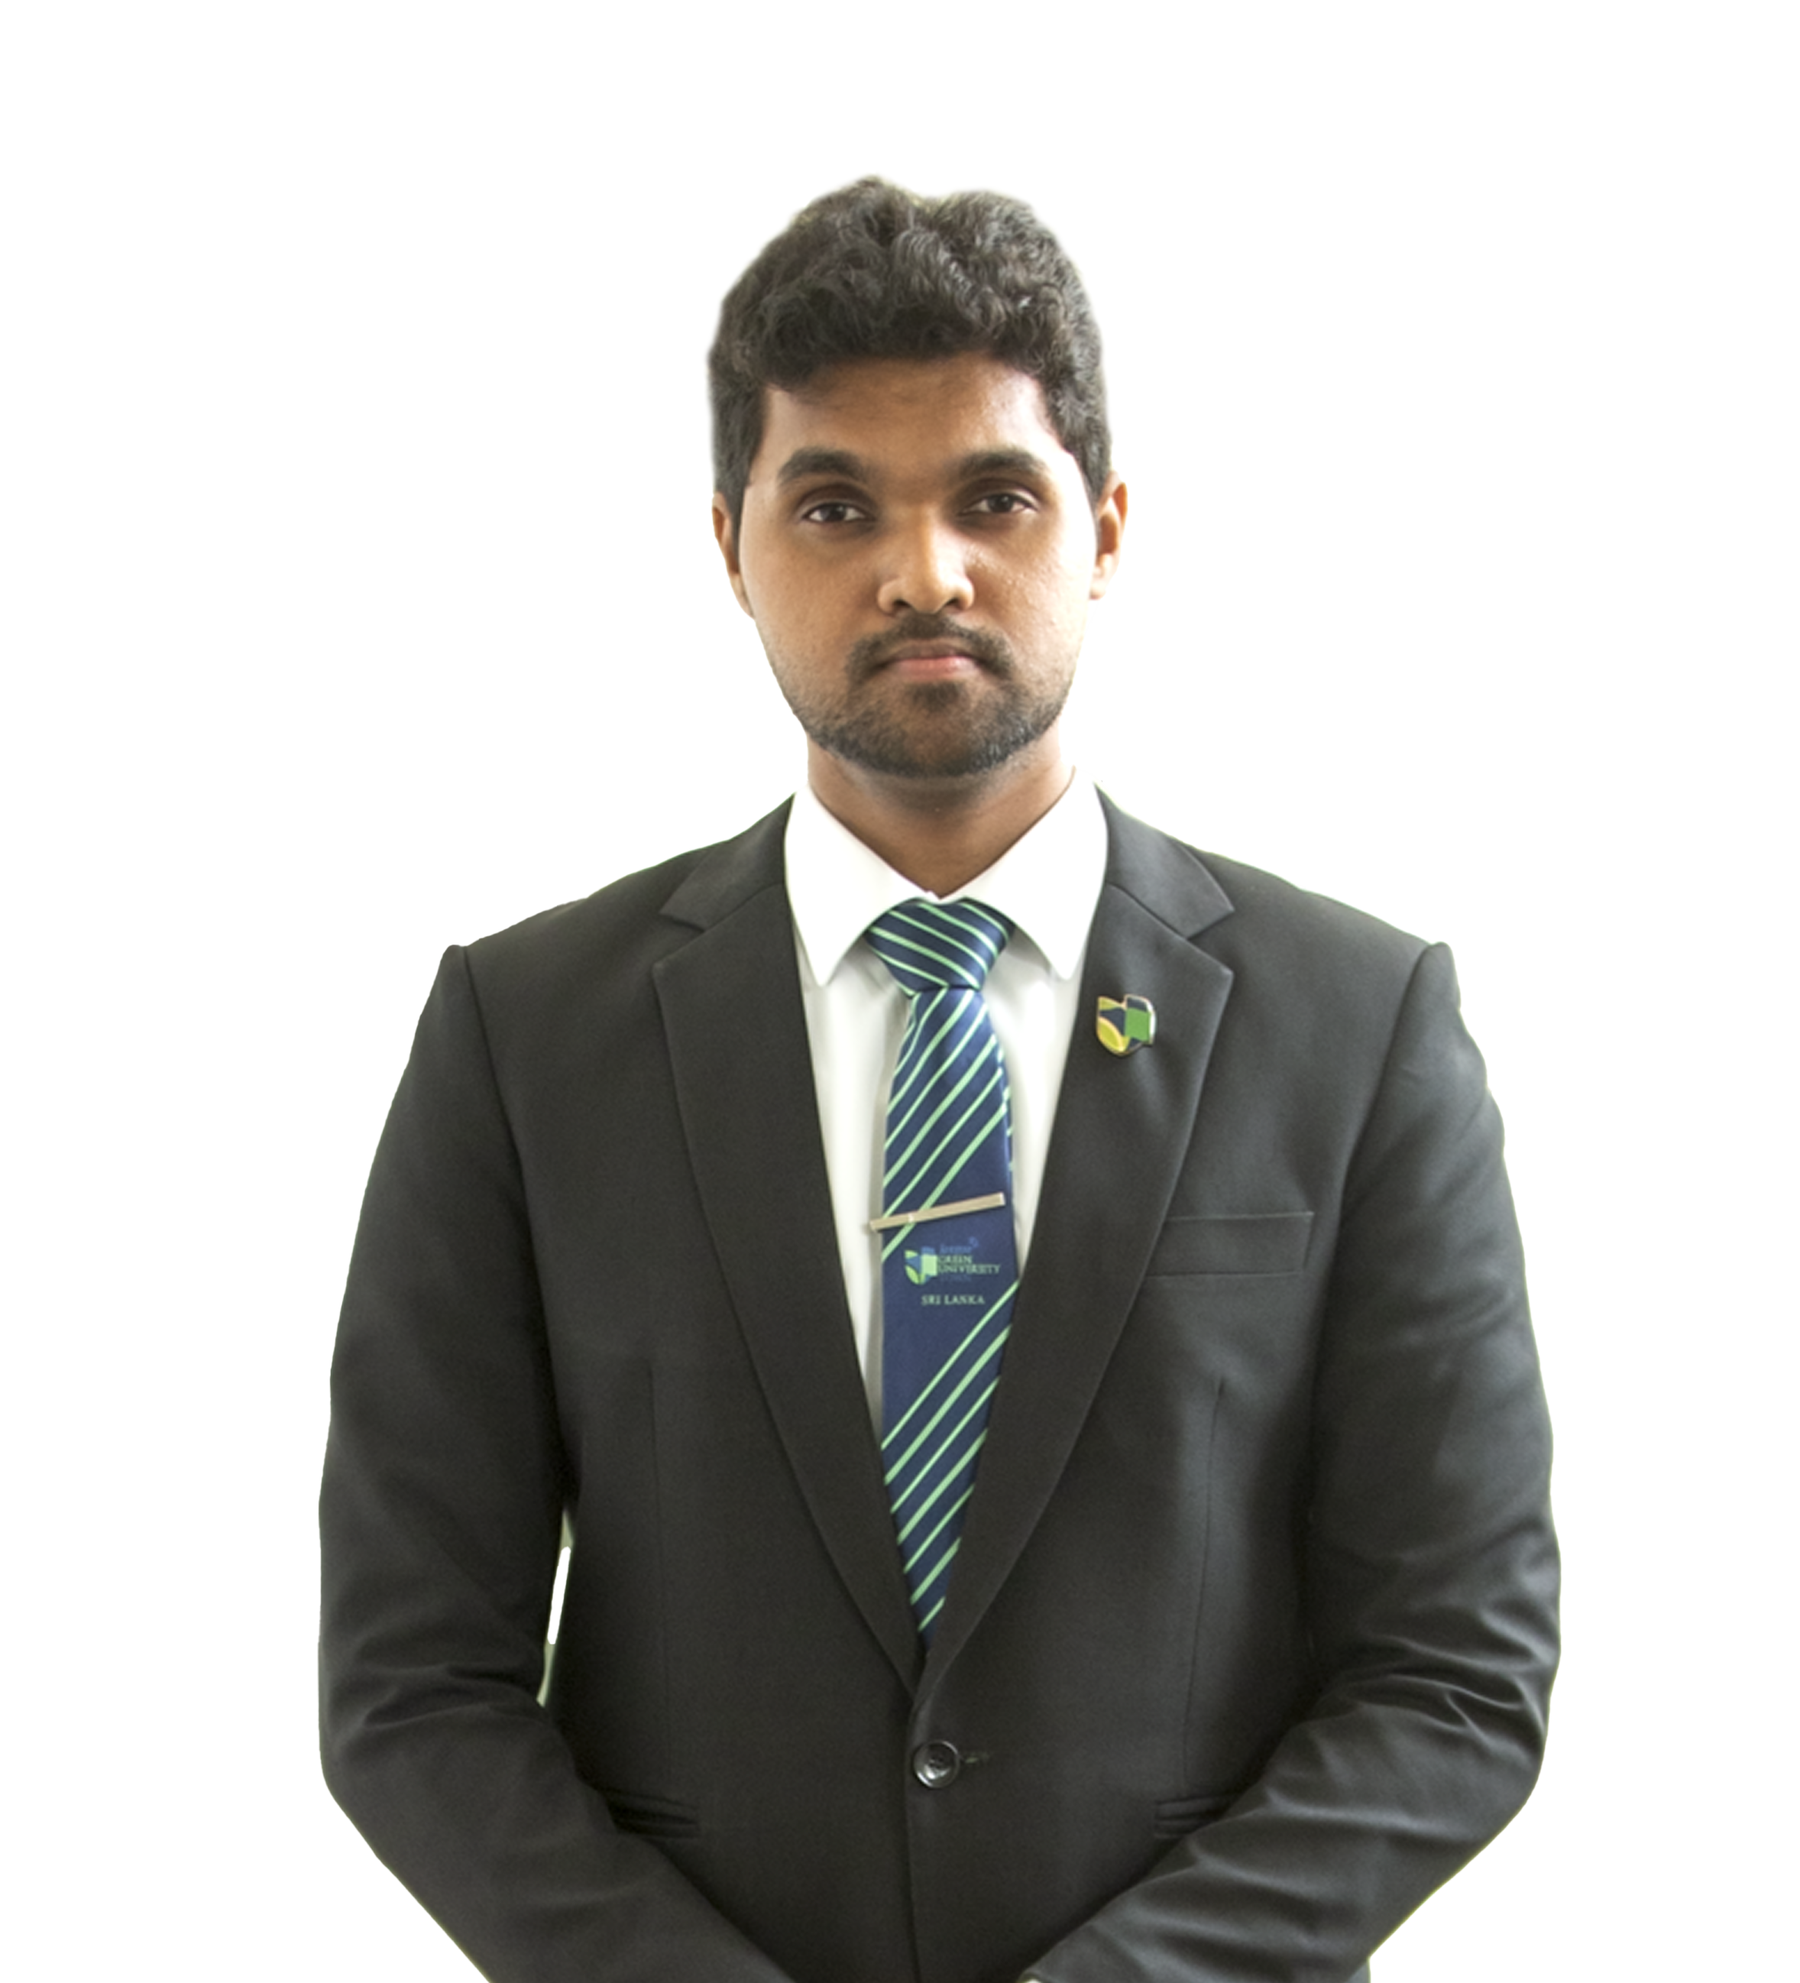
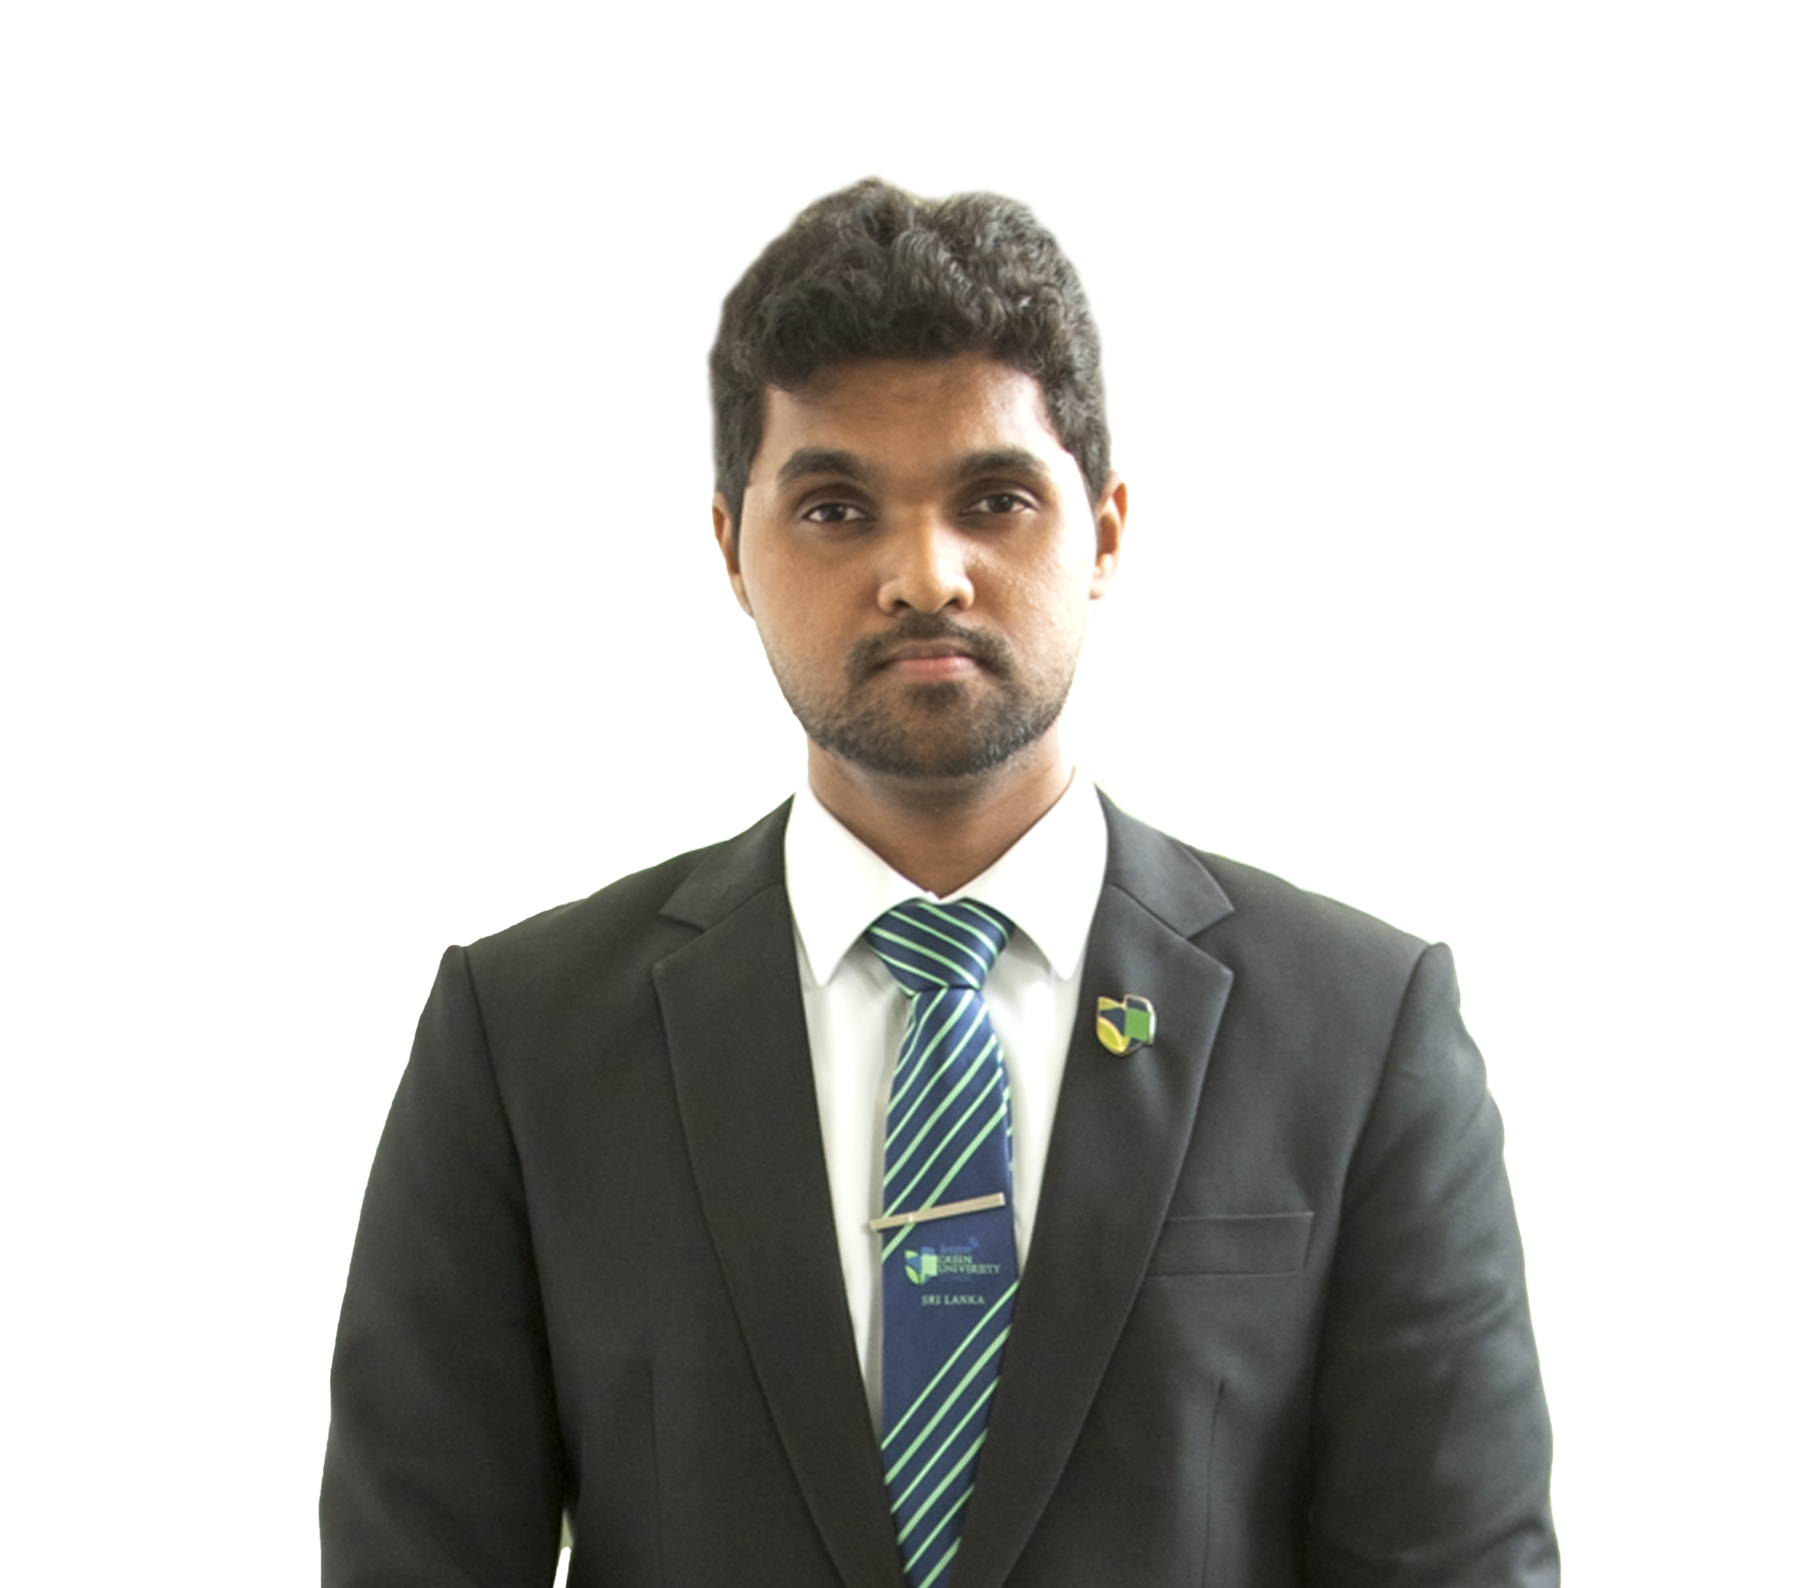
refactor(excom-card): branch based bg color and size changes to excom cards

Changed region(s): [[0.1549, 0.0924, 0.8676, 1.0], [0.5887, 0.8624, 0.6197, 0.924], [0.4028, 0.9856, 0.4338, 1.0]]

diff --git a/src/components/excom-page-tabs/2025-excom.tsx b/src/components/excom-page-tabs/2025-excom.tsx
@@ -12,31 +12,44 @@ export default function TwentyFiveExcom({ category }: Props) {
   const TwentyFiveExcom = members.filter(
     (member) => member.year === 2025 && member.category === category,
   );
+  const getBackgroundColor = (category: string) => {
+    switch (category) {
+      case "sb":
+        return "from-blue/50 to-blue/90";
+      case "cs":
+        return "from-csLight/50 to-csLight/90";
+      case "wie":
+        return "from-wieLight/50 to-wieLight/90";
+      default:
+        return "from-gray-400/50 to-gray-400/90";
+    }
+  };
   const excomCard = TwentyFiveExcom.map(
     (member: {
       year: number;
       name: string;
       image: StaticImageData;
+      category: string;
       title: string;
       linkdInURL: string;
       facebookURL: string;
     }) => (
       <div
         key={member.year}
-        className="flex flex-col items-center mx-5 md:m w-[350px] h-[350px] shadow-lg rounded-2xl text-center mt-10 hover:shadow-md transition-shadow duration-300"
+        className="flex flex-col items-center mx-5 md:m w-[300px] h-[350px] shadow-lg rounded-2xl text-center mt-10 hover:shadow-md transition-shadow duration-300"
       >
         <Image
           src={member.image}
           alt={member.name}
-          className="rounded-full w-[200px] h-[200px] mt-4 mb-4"
+          className={`bg-gradient-to-b ${getBackgroundColor(member.category)} w-full h-[250px] mb-4 rounded-t-2xl`}
         />
         <h2 className="text-xl font-bold">{member.name}</h2>
         <p className="text-sm text-gray-600">{member.title}</p>
-        <div className="flex p-2 justify-center text-[20px] gap-2">
-          <Link href="#" className="footer-social">
+        <div className="flex p-2 justify-center text-[20px] text-blue gap-2">
+          <Link href={member.facebookURL} className="footer-social">
             <BsFacebook />
           </Link>
-          <Link href="#" className="footer-social">
+          <Link href={member.linkdInURL} className="footer-social">
             <BsLinkedin />
           </Link>
         </div>
@@ -45,7 +58,7 @@ export default function TwentyFiveExcom({ category }: Props) {
   );
   return (
     <div className="mx-auto mb-10">
-      <div className="grid grid-cols-1 justify-items-center md:grid-cols-2 container mx-auto max-w-[390px] md:max-w-[690px] lg:max-w-[850px] xl:max-w-[1100px] md:gap-5 pb-10">
+      <div className="flex flex-wrap flex-cols-1 justify-center md:flex-cols-3 container mx-auto max-w-[390px] md:max-w-[690px] lg:max-w-[850px] xl:max-w-[1100px] md:gap-5 pb-10">
         {excomCard}
       </div>
     </div>

diff --git a/src/components/excom-page-tabs/2024-excom.tsx b/src/components/excom-page-tabs/2024-excom.tsx
@@ -12,31 +12,44 @@ export default function TwentyFourExcom({ category }: Props) {
   const TwentyFourExcom = members.filter(
     (member) => member.year === 2024 && member.category === category,
   );
+  const getBackgroundColor = (category: string) => {
+    switch (category) {
+      case "sb":
+        return "from-blue/50 to-blue/90";
+      case "cs":
+        return "from-csLight/50 to-csLight/90";
+      case "wie":
+        return "from-wieLight/50 to-wieLight/90";
+      default:
+        return "from-gray-400/50 to-gray-400/90";
+    }
+  };
   const excomCard = TwentyFourExcom.map(
     (member: {
       year: number;
       name: string;
       image: StaticImageData;
+      category: string;
       title: string;
       linkdInURL: string;
       facebookURL: string;
     }) => (
       <div
         key={member.year}
-        className="flex flex-col items-center w-[350px] h-[350px] shadow-lg rounded-2xl text-center mx-5 mt-10 hover:shadow-md transition-shadow duration-300"
+        className="flex flex-col items-center w-[300px] h-[350px] shadow-lg rounded-2xl text-center mx-5 mt-10 hover:shadow-md transition-shadow duration-300"
       >
         <Image
           src={member.image}
           alt={member.name}
-          className="w-full h-[250px] mb-4 rounded-t-2xl"
+          className={`bg-gradient-to-b ${getBackgroundColor(member.category)} w-full h-[250px] mb-4 rounded-t-2xl`}
         />
         <h2 className="text-xl font-bold">{member.name}</h2>
         <p className="text-sm text-gray-600">{member.title}</p>
-        <div className="flex p-2 justify-center text-[20px] gap-2">
-          <Link href="#" className="footer-social">
+        <div className="flex p-2 justify-center text-[20px] text-blue gap-2">
+          <Link href={member.facebookURL} className="footer-social">
             <BsFacebook />
           </Link>
-          <Link href="#" className="footer-social">
+          <Link href={member.linkdInURL} className="footer-social">
             <BsLinkedin />
           </Link>
         </div>
@@ -45,7 +58,7 @@ export default function TwentyFourExcom({ category }: Props) {
   );
   return (
     <div className="mx-auto mb-10">
-      <div className="grid grid-cols-1 justify-items-center md:grid-cols-2 container mx-auto max-w-[390px] md:max-w-[690px] lg:max-w-[850px] xl:max-w-[1100px] md:gap-5 pb-10">
+      <div className="flex flex-wrap flex-cols-1 justify-center md:grid-cols-2 container mx-auto max-w-[390px] md:max-w-[690px] lg:max-w-[850px] xl:max-w-[1100px] md:gap-5 pb-10">
         {excomCard}
       </div>
     </div>

diff --git a/src/components/wie-cs/excom-section.tsx b/src/components/wie-cs/excom-section.tsx
@@ -1,0 +1,66 @@
+"use client";
+import { members } from "@/content/excom-member-data";
+import Image from "next/image";
+import Link from "next/link";
+import React from "react";
+import { BsFacebook, BsLinkedin } from "react-icons/bs";
+
+function ExcomSection({
+  title,
+  year,
+  category,
+  description,
+}: {
+  title: string;
+  year: number;
+  category: string;
+  description: string;
+}) {
+  const filteredMembers = members.filter(
+    (member) => member.category === category && member.year === year,
+  );
+  const getBackgroundColor = (category: string) => {
+    switch (category) {
+      case "sb":
+        return "from-blue/50 to-blue/90";
+      case "cs":
+        return "from-csLight/50 to-csLight/90";
+      case "wie":
+        return "from-wieLight/50 to-wieLight/90";
+      default:
+        return "from-gray-400/50 to-gray-400/90";
+    }
+  };
+  return (
+    <div className="container mx-auto max-w-[1170px] px-4 mt-14 flex flex-col gap-4">
+      <h1 className="text-4xl lg:text-6xl font-bold text-center">{title}</h1>
+      <p className="text-center">{description}</p>
+      <div className="flex flex-wrap justify-center gap-4">
+        {filteredMembers.map((member, index) => (
+          <div
+            key={index}
+            className="flex flex-col items-center mx-5 md:m w-[300px] h-[350px] shadow-lg rounded-2xl text-center mt-10 hover:shadow-md transition-shadow duration-300"
+          >
+            <Image
+              src={member.image}
+              alt={member.name}
+              className={`bg-gradient-to-b ${getBackgroundColor(member.category)} w-full h-[250px] mb-4 rounded-t-2xl`}
+            />
+            <h2 className="text-xl font-bold">{member.name}</h2>
+            <p className="text-sm text-gray-600">{member.title}</p>
+            <div className="flex p-2 justify-center text-[20px] text-blue gap-2">
+              <Link href={member.facebookURL} className="footer-social">
+                <BsFacebook />
+              </Link>
+              <Link href={member.linkdInURL} className="footer-social">
+                <BsLinkedin />
+              </Link>
+            </div>
+          </div>
+        ))}
+      </div>
+    </div>
+  );
+}
+
+export default ExcomSection;

diff --git a/src/content/excom-member-data.tsx b/src/content/excom-member-data.tsx
@@ -37,6 +37,65 @@ export const members = [
   // {
   //   year: 2025,
   //   name: "Geeth Induwara",
+  //   image:
+  //     require("@/assets/bc-and-excom/excom/2025/jayasanka-ariyaratna.png") as StaticImageData,
+  //   title: "Chairperson - IEEE Student Branch",
+  //   linkdInURL: "",
+  //   facebookURL: "",
+  //   category: "sb",
+  // },{
+  //   year: 2025,
+  //   name: "Geeth Induwara",
+  //   image:
+  //     require("@/assets/bc-and-excom/excom/2025/jayasanka-ariyaratna.png") as StaticImageData,
+  //   title: "Chairperson - IEEE Student Branch",
+  //   linkdInURL: "",
+  //   facebookURL: "",
+  //   category: "sb",
+  // },{
+  //   year: 2025,
+  //   name: "Geeth Induwara",
+  //   image:
+  //     require("@/assets/bc-and-excom/excom/2025/jayasanka-ariyaratna.png") as StaticImageData,
+  //   title: "Chairperson - IEEE Student Branch",
+  //   linkdInURL: "",
+  //   facebookURL: "",
+  //   category: "sb",
+  // },
+  // {
+  //   year: 2025,
+  //   name: "Jayasanka Ariyaratna",
+  //   image:
+  //     require("@/assets/bc-and-excom/excom/2025/jayasanka-ariyaratna.png") as StaticImageData,
+  //   title: "Chairperson - IEEE Computer Society",
+  //   linkdInURL: "",
+  //   facebookURL: "",
+  //   category: "cs",
+  // },
+  // {
+  //   year: 2025,
+  //   name: "Jayasanka Ariyaratna",
+  //   image:
+  //     require("@/assets/bc-and-excom/excom/2025/jayasanka-ariyaratna.png") as StaticImageData,
+  //   title: "Chairperson - IEEE Computer Society",
+  //   linkdInURL: "",
+  //   facebookURL: "",
+  //   category: "cs",
+  // },
+  // {
+  //   year: 2025,
+  //   name: "Jayasanka Ariyaratna",
+  //   image:
+  //     require("@/assets/bc-and-excom/excom/2025/jayasanka-ariyaratna.png") as StaticImageData,
+  //   title: "Chairperson - IEEE Computer Society",
+  //   linkdInURL: "",
+  //   facebookURL: "",
+  //   category: "cs",
+  // },
+
+  // {
+  //   year: 2025,
+  //   name: "Geeth Induwara",
   //   imageUrl: "/images/excom/2025/Geeth-induwara.jpg",
   //   title: "Chairperson",
   //   linkdInURL: "",

diff --git a/src/components/wie-cs/past-excom-section.tsx b/src/components/wie-cs/past-excom-section.tsx
@@ -1,47 +1,25 @@
-"use client";
-import { members } from "@/content/excom-member-data";
-// import Image from "next/image";
+import Image, { StaticImageData } from "next/image";
 import React from "react";
 
 function PastExcomSection({
   title,
-  year,
-  category,
-  description,
+
+  imgUrl,
 }: {
   title: string;
-  year: number;
-  category: string;
-  description: string;
+  imgUrl: StaticImageData;
 }) {
-  const filteredMembers = members.filter(
-    (member) => member.category === category && member.year === year,
-  );
   return (
-    <div className="container mx-auto max-w-[1170px] px-4 mt-14 flex flex-col gap-4">
-      <h1 className="text-4xl lg:text-6xl font-bold text-center">{title}</h1>
-      <p className="text-center">{description}</p>
-      <div className="flex flex-wrap justify-center gap-4">
-        {filteredMembers.map((excom, index) => (
-          <div
-            key={index}
-            className="w-[200px] text-center flex flex-col items-center rounded-lg border shadow-sm overflow-hidden"
-          >
-            <div className="w-full h-[200px] ">
-              {/* <Image
-                // src={excom.imageUrl}
-                alt={excom.name}
-                width={128}
-                height={128}
-                className="h-full w-full object-cover"
-              /> */}
-            </div>
-            <div className="p-2">
-              <h2 className="text-base font-bold">{excom.name}</h2>
-              <p className="text-sm">{excom.title}</p>
-            </div>
-          </div>
-        ))}
+    <div className="container mx-auto max-w-[1170px] flex flex-col gap-4 my-12 justify-center items-center text-center  p-10">
+      <h1 className="text-4xl font-bold text-center">{title}</h1>
+      <div className="max-w-[760px] w-full  md:px-10">
+        <Image
+          src={imgUrl}
+          width={869}
+          height={1000}
+          className="w-full"
+          alt="excom members"
+        />
       </div>
     </div>
   );

diff --git a/src/app/cs/page.tsx b/src/app/cs/page.tsx
@@ -3,7 +3,7 @@ import duothanImg from "@/assets/hero-images/duothan4.0.jpg";
 import EventCard from "@/components/index/event-card";
 import HeroCarousel from "@/components/index/hero-section";
 import ShapeFuture from "@/components/index/shape-future";
-import ExcomSection from "@/components/wie-cs/ex-com-section";
+import ExcomSection from "@/components/wie-cs/excom-section";
 import PageIntro from "@/components/wie-cs/page-intro";
 import PastExcomSection from "@/components/wie-cs/past-excom-section";
 import React from "react";
@@ -29,13 +29,13 @@ function page() {
         description="IEEE Computer Society is a professional society of the Institute of Electrical and Electronics Engineers (IEEE). It sponsors workshops and conferences, operates technical committees, and develops IEEE computing standards. The community supports more than 200 chapters worldwide and participates in educational activities at all levels in CS and professional certification in software engineering. IEEE Computer Society of NSBM is the student chapter of the NSBM Green University, and its purpose is to increase the knowledge in computer literacy & IT, as well as the professional standing of its members."
       />
       <EventCard category="cs" />
-      <PastExcomSection
+      <ExcomSection
         title="Executive Committee 2025/26"
         year={2025}
         category="cs"
         description="The Executive Committee of IEEE Computer Society will deliver organizational guidance to the community. Join the IEEE Computer Society, a leading organization for anyone engaged in computers and information technology to expand their knowledge."
       />
-      <ExcomSection title="Past Executive Committee" imgUrl={DVC} />
+      <PastExcomSection title="Past Executive Committee" imgUrl={DVC} />
       <ShapeFuture />
     </>
   );

diff --git a/src/app/wie/page.tsx b/src/app/wie/page.tsx
@@ -3,7 +3,7 @@ import duothanImg from "@/assets/hero-images/duothan4.0.jpg";
 import EventCard from "@/components/index/event-card";
 import HeroCarousel from "@/components/index/hero-section";
 import ShapeFuture from "@/components/index/shape-future";
-import ExcomSection from "@/components/wie-cs/ex-com-section";
+import ExcomSection from "@/components/wie-cs/excom-section";
 import PageIntro from "@/components/wie-cs/page-intro";
 import PastExcomSection from "@/components/wie-cs/past-excom-section";
 import React from "react";
@@ -32,7 +32,7 @@ function page() {
           career in engineering."
       />
       <EventCard category="wie" />
-      <PastExcomSection
+      <ExcomSection
         title="Executive Committee 2025/26"
         year={2025}
         category="wie"
@@ -43,7 +43,7 @@ function page() {
         steps in that direction by hosting motivational sessions for Women in
         Tech."
       />
-      <ExcomSection title="Past Executive Committee" imgUrl={DVC} />
+      <PastExcomSection title="Past Executive Committee" imgUrl={DVC} />
       <ShapeFuture />
     </>
   );
